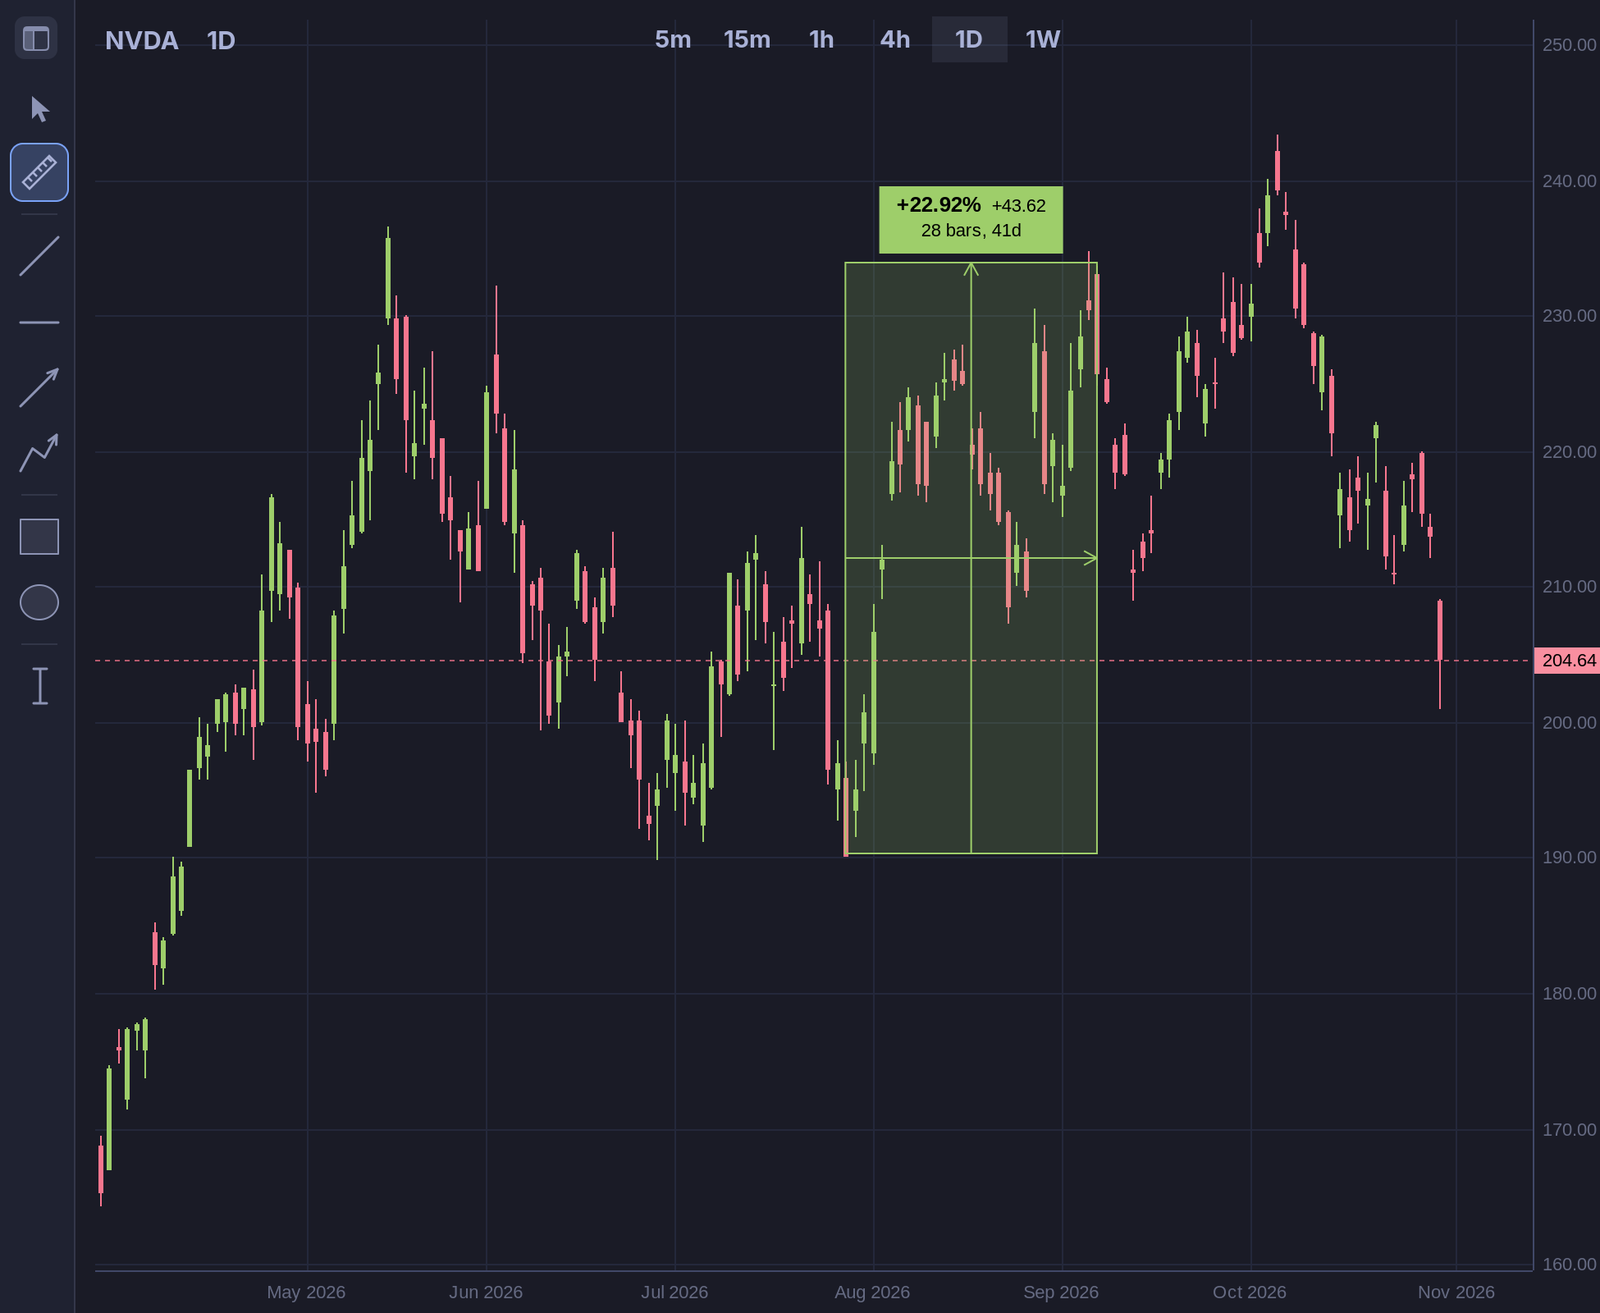
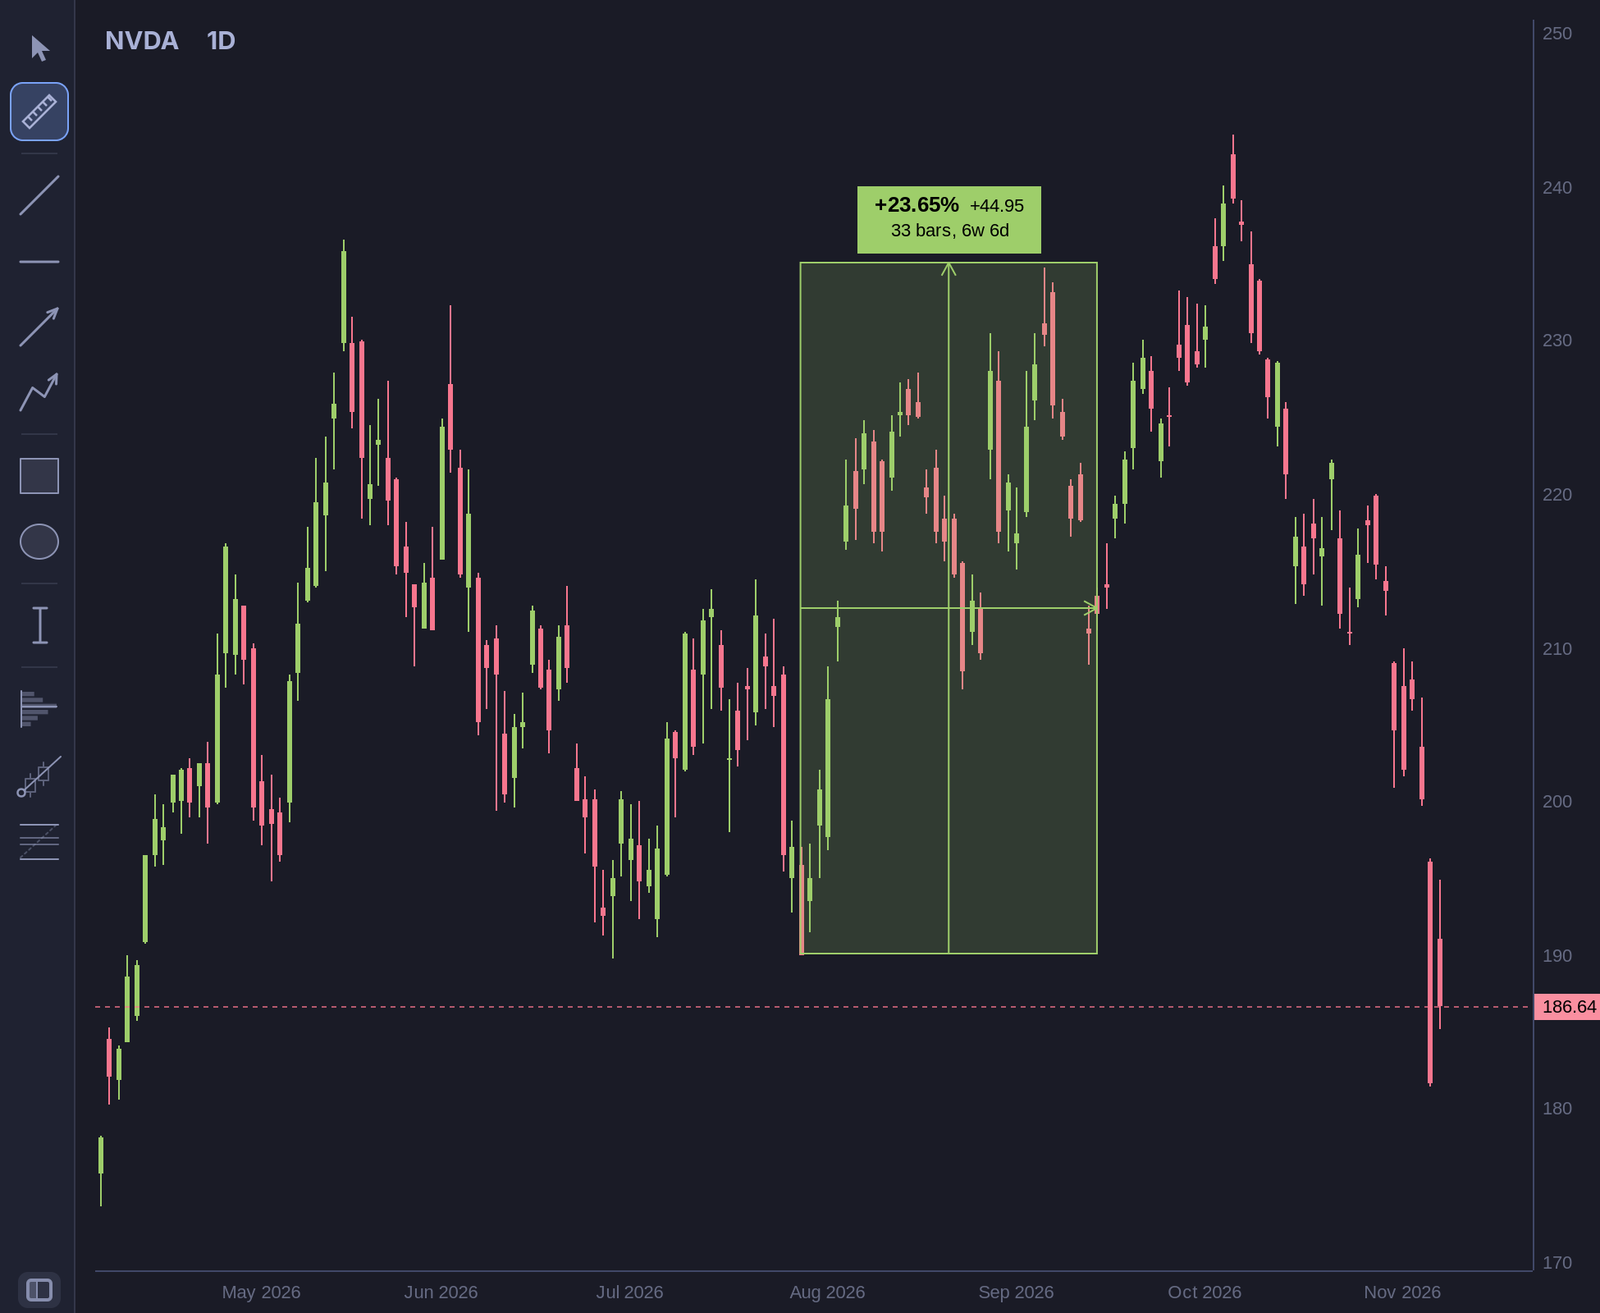
Write a long ruler span in weeks, months and years (#133)
2771d is a number to divide in your head; 7y 7mo is not. A span of two weeks or more reads in weeks, two months or more in months, and a year or more in years, with a year as 365 days and a month a twelfth of one. The manual, doc/cli.md and the ruler screenshot follow.

diff --git a/crates/omacharts-engine/src/measurement.rs b/crates/omacharts-engine/src/measurement.rs
@@ -91,9 +91,23 @@ fn signed(value: f64, decimals: usize) -> String {
 }
 
 /// Calendar time in its two largest units, the smaller left off when it is
-/// zero: `32d`, `5h 55m`, `5h`, `40s`.
+/// zero: `7y 7mo`, `3mo 1w`, `5w 6d`, `12d 4h`, `5h 55m`, `5h`, `40s`.
+///
+/// A span of two weeks or more is written in weeks, two months or more in
+/// months, and a year or more in years, since a long count of days is a
+/// number to divide in your head. A year is 365 days and a month a twelfth
+/// of one: a span in seconds has no calendar to count real months on.
 fn duration(seconds: u64) -> String {
-    let (big, small, units) = if seconds >= 86400 {
+    const WEEK: u64 = 7 * 86400;
+    const YEAR: u64 = 365 * 86400;
+    const MONTH: u64 = YEAR / 12;
+    let (big, small, units) = if seconds >= YEAR {
+        (seconds / YEAR, seconds % YEAR / MONTH, ("y", "mo"))
+    } else if seconds >= 2 * MONTH {
+        (seconds / MONTH, seconds % MONTH / WEEK, ("mo", "w"))
+    } else if seconds >= 2 * WEEK {
+        (seconds / WEEK, seconds % WEEK / 86400, ("w", "d"))
+    } else if seconds >= 86400 {
         (seconds / 86400, seconds % 86400 / 3600, ("d", "h"))
     } else if seconds >= 3600 {
         (seconds / 3600, seconds % 3600 / 60, ("h", "m"))
@@ -204,17 +218,28 @@ mod tests {
         assert_eq!(from_zero.parts().line(), "+10.00; 1 bar, 1d");
         // Too few candles to count columns: the time alone.
         let bare = Measurement::between(Anchor::new(0, 100.0), Anchor::new(32 * 86400, 101.0), &[], None);
-        assert_eq!(bare.parts().line(), "+1.00% +1.00; 32d");
+        assert_eq!(bare.parts().line(), "+1.00% +1.00; 4w 4d");
     }
 
     #[test]
     fn elapsed_time_leaves_off_a_smaller_unit_that_is_zero() {
-        assert_eq!(duration(32 * 86400), "32d");
-        assert_eq!(duration(32 * 86400 + 3 * 3600), "32d 3h");
+        assert_eq!(duration(13 * 86400 + 3 * 3600), "13d 3h");
+        assert_eq!(duration(4 * 86400), "4d");
         assert_eq!(duration(5 * 3600 + 55 * 60), "5h 55m");
         assert_eq!(duration(5 * 3600), "5h");
         assert_eq!(duration(90), "1m 30s");
         assert_eq!(duration(40), "40s");
         assert_eq!(duration(0), "0s");
+    }
+
+    #[test]
+    fn a_long_span_is_written_in_weeks_months_and_years() {
+        assert_eq!(duration(14 * 86400), "2w");
+        assert_eq!(duration(41 * 86400), "5w 6d");
+        assert_eq!(duration(60 * 86400), "8w 4d");
+        assert_eq!(duration(100 * 86400), "3mo 1w");
+        assert_eq!(duration(364 * 86400), "11mo 4w");
+        assert_eq!(duration(365 * 86400), "1y");
+        assert_eq!(duration(2771 * 86400), "7y 7mo");
     }
 }

diff --git a/site/manual/drawings.md b/site/manual/drawings.md
@@ -91,19 +91,21 @@ state:
   omacharts chart set --symbol NVDA --resolution 1D --template none
   key ctrl+shift+d
   key alt+m
-  click 515 520
+  click 488 581
   move 668 160
   click 668 160
   move 1275 795
 capture: bin/headless-window shot /tmp/ruler.png; magick /tmp/ruler.png -crop 1950x1600+0+0 +repage -resize 1600x site/assets/manual/drawings/ruler.png
 crop: 0,0,1950,1600
 -->
-{% include figure.html src="/assets/manual/drawings/ruler.png" alt="A rise on NVDA measured in green, labelled +22.92% +43.62 over 28 bars, 41d" caption="A move measured from the August low, left fixed by the second click." %}
+{% include figure.html src="/assets/manual/drawings/ruler.png" alt="A rise on NVDA measured in green, labelled +23.65% +44.95 over 33 bars, 6w 6d" caption="A move measured from the August low, left fixed by the second click." %}
 
 Bar distance counts the spaces between candles. Elapsed time includes weekends
-and market closures. The price change has as many decimals as the price axis
-gives that price. With fewer than two loaded candles the label shows the time
-without a bar distance, and a move that starts at zero shows no percentage.
+and market closures, and is written in days up to two weeks, then in weeks up
+to two months, then in months up to a year, then in years: `5w 6d`, `7y 7mo`.
+The price change has as many decimals as the price axis gives that price.
+With fewer than two loaded candles the label shows the time without a bar
+distance, and a move that starts at zero shows no percentage.
 Points beyond the loaded candles use the chart's estimated times. The
 measurement is not saved or shared with other charts. Choosing another tool or
 changing the symbol or resolution clears it.

diff --git a/doc/cli.md b/doc/cli.md
@@ -914,7 +914,7 @@ two time/price anchors and says what it measured:
 
 ```sh
 omacharts chart measure --from 2026-09-01,650 --to 2026-10-15,700
-# +7.69% +50.00; 31 bars, 44d on pos:0 SPY 1D in "Chartbook 1"
+# +7.69% +50.00; 31 bars, 6w 2d on pos:0 SPY 1D in "Chartbook 1"
 omacharts chart measure --from 2026-09-01,180.5 --to 2026-09-19,192 --json
 omacharts chart measure --clear
 ```

diff --git a/site/manual/cli.md b/site/manual/cli.md
@@ -818,7 +818,7 @@ returns its measurements. A window must be open; otherwise it exits 6.
 
 ```
 $ omacharts chart measure --from 2026-09-01,650 --to 2026-10-15,700
-+7.69% +50.00; 31 bars, 44d on pos:0 SPY 1D in "Chartbook 1"
++7.69% +50.00; 31 bars, 6w 2d on pos:0 SPY 1D in "Chartbook 1"
   [exit 0]
 ```
 
